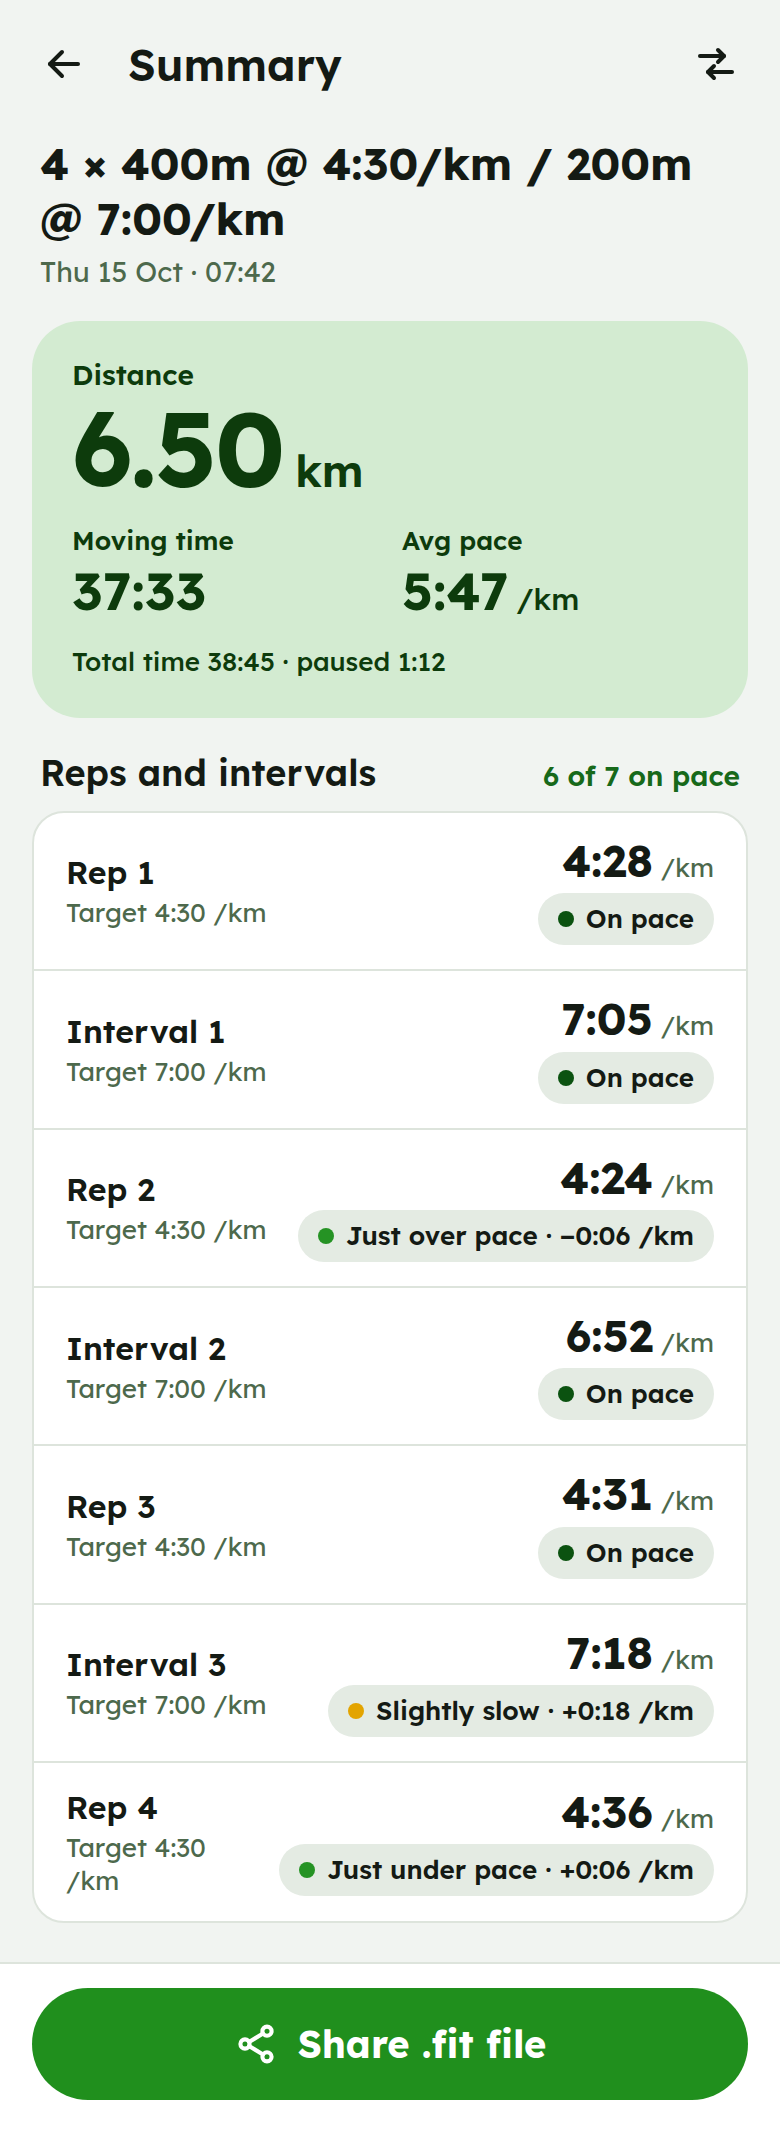
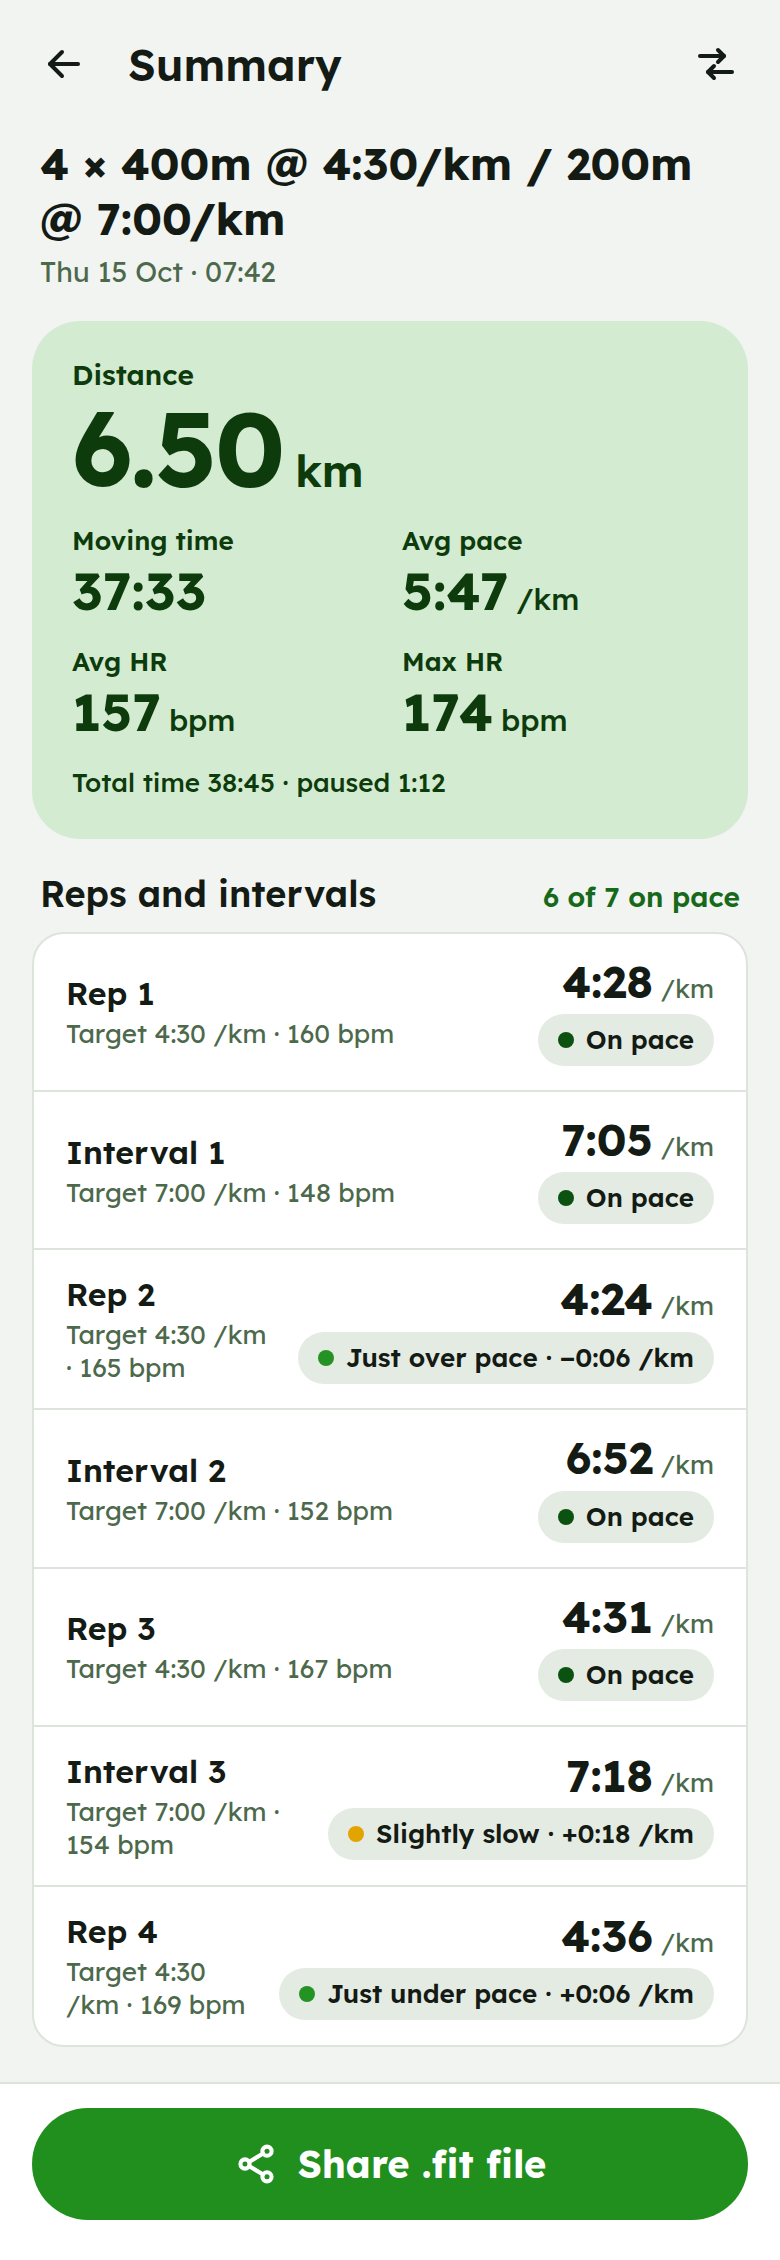
Describe heart rate in the comparison

diff --git a/index.html b/index.html
@@ -116,7 +116,7 @@ description: The Pacer is a running metronome for interval sessions. It plays a 
       <div class="card">
         <div class="icon"><svg width="26" height="26" viewBox="0 0 24 24" fill="none" stroke="currentColor" stroke-width="2" stroke-linecap="round" stroke-linejoin="round" aria-hidden="true"><path d="M12 21s-7-4.5-7-10a4 4 0 0 1 7-2.6A4 4 0 0 1 19 11c0 5.5-7 10-7 10z"/></svg></div>
         <h3>Heart rate</h3>
-        <p>Pair a Bluetooth chest strap and the summary shows your heart rate for every rep.</p>
+        <p>Pair a Bluetooth chest strap and the summary shows your heart rate for every rep. The comparison puts it under each rep's pace, week by week.</p>
       </div>
       <div class="card">
         <div class="icon"><svg width="26" height="26" viewBox="0 0 24 24" fill="none" stroke="currentColor" stroke-width="2" stroke-linecap="round" stroke-linejoin="round" aria-hidden="true"><rect x="5" y="11" width="14" height="10" rx="2"/><path d="M8 11V7a4 4 0 0 1 8 0v4"/></svg></div>
@@ -135,7 +135,7 @@ description: The Pacer is a running metronome for interval sessions. It plays a 
       </div>
       <div class="phones">
         <img class="phone" src="{{ '/assets/img/screens/35-finish-summary.png' | relative_url }}" width="390" height="1012" alt="The summary after a session, rating each rep against its target pace.">
-        <img class="phone" src="{{ '/assets/img/screens/44-comparison.png' | relative_url }}" width="390" height="844" alt="The same session compared across several weeks, rep by rep.">
+        <img class="phone" src="{{ '/assets/img/screens/44-comparison.png' | relative_url }}" width="390" height="879" alt="The same session compared across several weeks, rep by rep, with heart rate under each pace.">
       </div>
     </div>
   </section>

diff --git a/manual/after-the-run.md b/manual/after-the-run.md
@@ -11,7 +11,7 @@ When a session ends, its summary opens.
   <img src="{{ '/assets/img/screens/35-finish-summary.png' | relative_url }}" width="390" height="1012" alt="The summary after a session.">
 </figure>
 
-- **The overall card** shows distance, moving time and average pace. Moving time leaves out pauses. If you paused, a line below gives the total time and the paused time too.
+- **The overall card** shows distance, moving time and average pace. Moving time leaves out pauses. If you paused, a line below gives the total time and the paused time too. A run of an hour or more shows its time with hours, as 1:12:45.
 - **Heart rate**, if a chest strap was connected, adds your average and maximum to the card, and each rep's average beside its target.
 - **Reps** lists every rep, and every recovery that had a target pace, in the order you ran them. Each row shows the target, your average and a chip in the gauge's colours and words. The rating uses the rep's average, not the moment-to-moment pace the gauge showed.
 - **"5 of 6 on pace"** heads the list. If a rep came out off pace while you kept to the beat, the beat may still be learning your stride; it adjusts as you run.
@@ -32,7 +32,7 @@ The Pacer has no account and uploads nothing by itself. Sharing is the only way 
 
 <figure>
   <img src="{{ '/assets/img/screens/39-history.png' | relative_url }}" width="390" height="844" alt="The history of runs.">
-  <img src="{{ '/assets/img/screens/44-comparison.png' | relative_url }}" width="390" height="844" alt="One session compared across several runs.">
+  <img src="{{ '/assets/img/screens/44-comparison.png' | relative_url }}" width="390" height="879" alt="One session compared across several runs, with heart rate under each rep's pace.">
 </figure>
 
 Runs are kept until you delete them. To delete one, tap the bin on its row and confirm; its recording and .fit file go with it. **Undo** brings it back.
@@ -40,5 +40,9 @@ Runs are kept until you delete them. To delete one, tap the bin on its row and c
 ## Comparing runs
 
 When you have run the same session at least twice, a run's summary offers **Compare**. It shows the last five runs of that session side by side: one row per rep, one column per run, each cell your average pace for that rep in its band colour. A dash marks a rep that run never reached, or ran without GPS.
+
+If a chest strap was connected, each cell also shows that rep's average heart rate under the pace. That is what the screen is for: the same pace at a lower heart rate, week by week. A run without a strap shows pace alone. A dash in place of the heart rate means the strap caught too little of that rep to give an average.
+
+Below the table, **These runs** lists each run with its distance, time, average pace and average heart rate. On a narrow phone, a long run's line leaves out the heart rate so the other numbers stay whole.
 
 Only runs of the same plan are compared. If you edited the session between runs, so that its reps no longer match, the screen leaves those runs out and says how many.

diff --git a/manual/settings.md b/manual/settings.md
@@ -36,7 +36,7 @@ The Pacer records heart rate from a Bluetooth chest strap. Any strap that sends 
 
 From then on the app connects to that strap for every session. The strap line in Settings shows **Connected**, **Connecting** or **Not in reach**.
 
-Heart rate is **recorded, not shown, during a run**. Your eyes belong on the pace. You see it afterwards in the summary, per rep and for the whole run, and it goes into the .fit file.
+Heart rate is **recorded, not shown, during a run**. Your eyes belong on the pace. You see it afterwards in the summary, per rep and for the whole run, and in the comparison of a session's runs. It also goes into the .fit file.
 
 ## Sharing your runs
 
